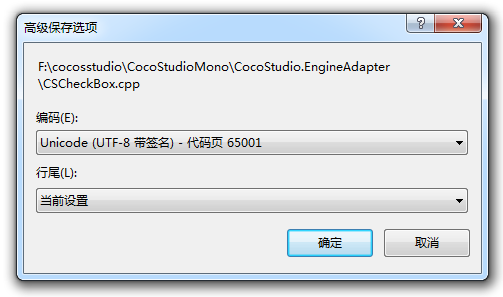
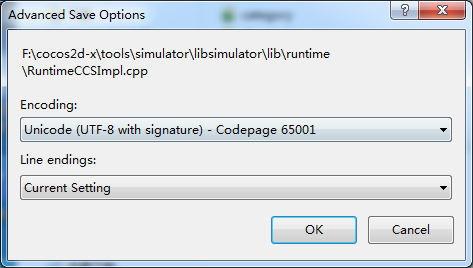
更新文档。

diff --git a/manual/studio/v4/chapter4/FixPackageError/en.md b/manual/studio/v4/chapter4/FixPackageError/en.md
@@ -14,9 +14,9 @@ Set variable Path, and append the location of the bin folder where the JRE is in
 
 4 Use UTF-8 to code Cpp. It is convenient to view the file encoding format with Visual Studio. 
 
-&emsp;&emsp;![image](res/image0004.png)
+&emsp;&emsp;![image](res_en/image0004.png)
 
-&emsp;&emsp;![image](res/image0003.png)
+&emsp;&emsp;![image](res_en/image0003.png)
 
 5 Currently it is not supported to access files on a USB disk, for on Windows the path support in Python is flawed. Copy project files from the USB disk to your computer and run the project. 
 
@@ -43,9 +43,9 @@ Solution: Add source files to Android.mk.
 
 8 “was declared deprecated”, for example: 
 
-	1>d:\cocos2d-x\project\xiaochuxinxin\classes\xmlparser.cpp(15): warning C4996: 'cocos2d::CCString': 被声明为已否决
-	1>          d:\cocos\frameworks\cocos2d-x-3.6\cocos\deprecated\ccdeprecated.h(1050) : 参见“cocos2d::CCString”的声明
-	1>d:\cocos2d-x\project\xiaochuxinxin\classes\xmlparser.cpp(15): warning C4996: 'cocos2d::CCDictionary': 被声明为已否决
+	1>d:\cocos2d-x\project\xiaochuxinxin\classes\xmlparser.cpp(15): warning C4996: 'cocos2d::CCString': was declared deprecated
+	1>          d:\cocos\frameworks\cocos2d-x-3.6\cocos\deprecated\ccdeprecated.h(1050) : 
+	1>d:\cocos2d-x\project\xiaochuxinxin\classes\xmlparser.cpp(15): warning C4996: 'cocos2d::CCDictionary': was declared deprecated
 
 Cause: When updating the engine, there will be some deprecated functions, which are available but with this error message. 
 
@@ -59,7 +59,7 @@ Solution:  use the F12 tools to debug on a statement level, and find the codes t
 	Updated file d:\cocosSample\Cocos\CocosProjects\CocosProject1\proj.android\proguard-project.txt
 	It seems that there are sub-projects. If you want to update them
 	please use the --subprojects parameter.
-	系统找不到指定的路径。
+
 	Running command: compile
 	Building mode: debug
 	Android platform not specified, searching a default one...
@@ -94,13 +94,13 @@ Solution: update .vxproject configuration.
 
 13 Missing type specifier (missing header files), for example: 
 
-&emsp;&emsp;![image](res/image0005.png)
+&emsp;&emsp;![image](res_en/image0005.png)
 
 Cause: Undefined preprocessor.
 
 Solution: 
 
-    CC_ENABLE_CHIPMUNK_INTEGRATION=1更改为CC_ENABLE_BOX2D_INTEGRATION=1
+    CC_ENABLE_CHIPMUNK_INTEGRATION=1 change to CC_ENABLE_BOX2D_INTEGRATION=1
 
 If you have added references to project, please see [http://www.bkjia.com/Androidjc/889857.html](http://www.bkjia.com/Androidjc/889857.html).
 
@@ -108,7 +108,6 @@ P.S. there is bug in v3.6 BOX2D- TEST. Solution: [https://github.com/cocos2d/coc
 
 14 sh: cocos: command not found, for example: 
 
-	//3.5、3.6的话，将工程导入到Eclipse中，会报sh: cocos: command not found的错误，但是用控制台能正常打包。这是一个Bug。
 	**** Build of configuration Release for project CocosProjectTest ****
 	python /Users/zhongcs/dev/cocosworkspace/CocosProjectTest/proj.android/build_native.py -b release all 
 	sh: cocos: command not found
@@ -130,21 +129,6 @@ Cause: Successful compilation on PC means that there is IDE libraries support C+
 
 Solution: Look for 3rd-party regular expression parsing library, for example, C++ regular expression library. Or compile with ndk-r10c or higher versions.  
 
-16 Failed to load one or more solution projects, for example: 
-
-    Based on: cocos2d-x-3.6
-    Microsoft (R) Microsoft Visual Studio 2012 11.0.50727.1 版。
-    版权所有(C) Microsoft Corp。保留所有权利。
-    D:\Cocos_Project\js\test\frameworks\runtime-src\proj.win32\test.vcxproj : error  : 未找到与约束 
-	ContractName	Microsoft.VisualStudio.Project.IProjectServiceAccessor
-	RequiredTypeIdentity	Microsoft.VisualStudio.Project.IProjectServiceAccessor 匹配的导出
-    未能正确加载解决方案中的一个或多个项目。
-    有关详细信息，请参见“输出”窗口。
-    未能完成操作。参数错误。 
-    用法: 
-    devenv  [解决方案文件 | 项目文件 | 任意文件.扩展名]  [开关]
-
-Solution: Repair or reinstall Visual Studio. 
 
 ***Note** Remember to check log files, which are the points to debug most issues.* 
 
